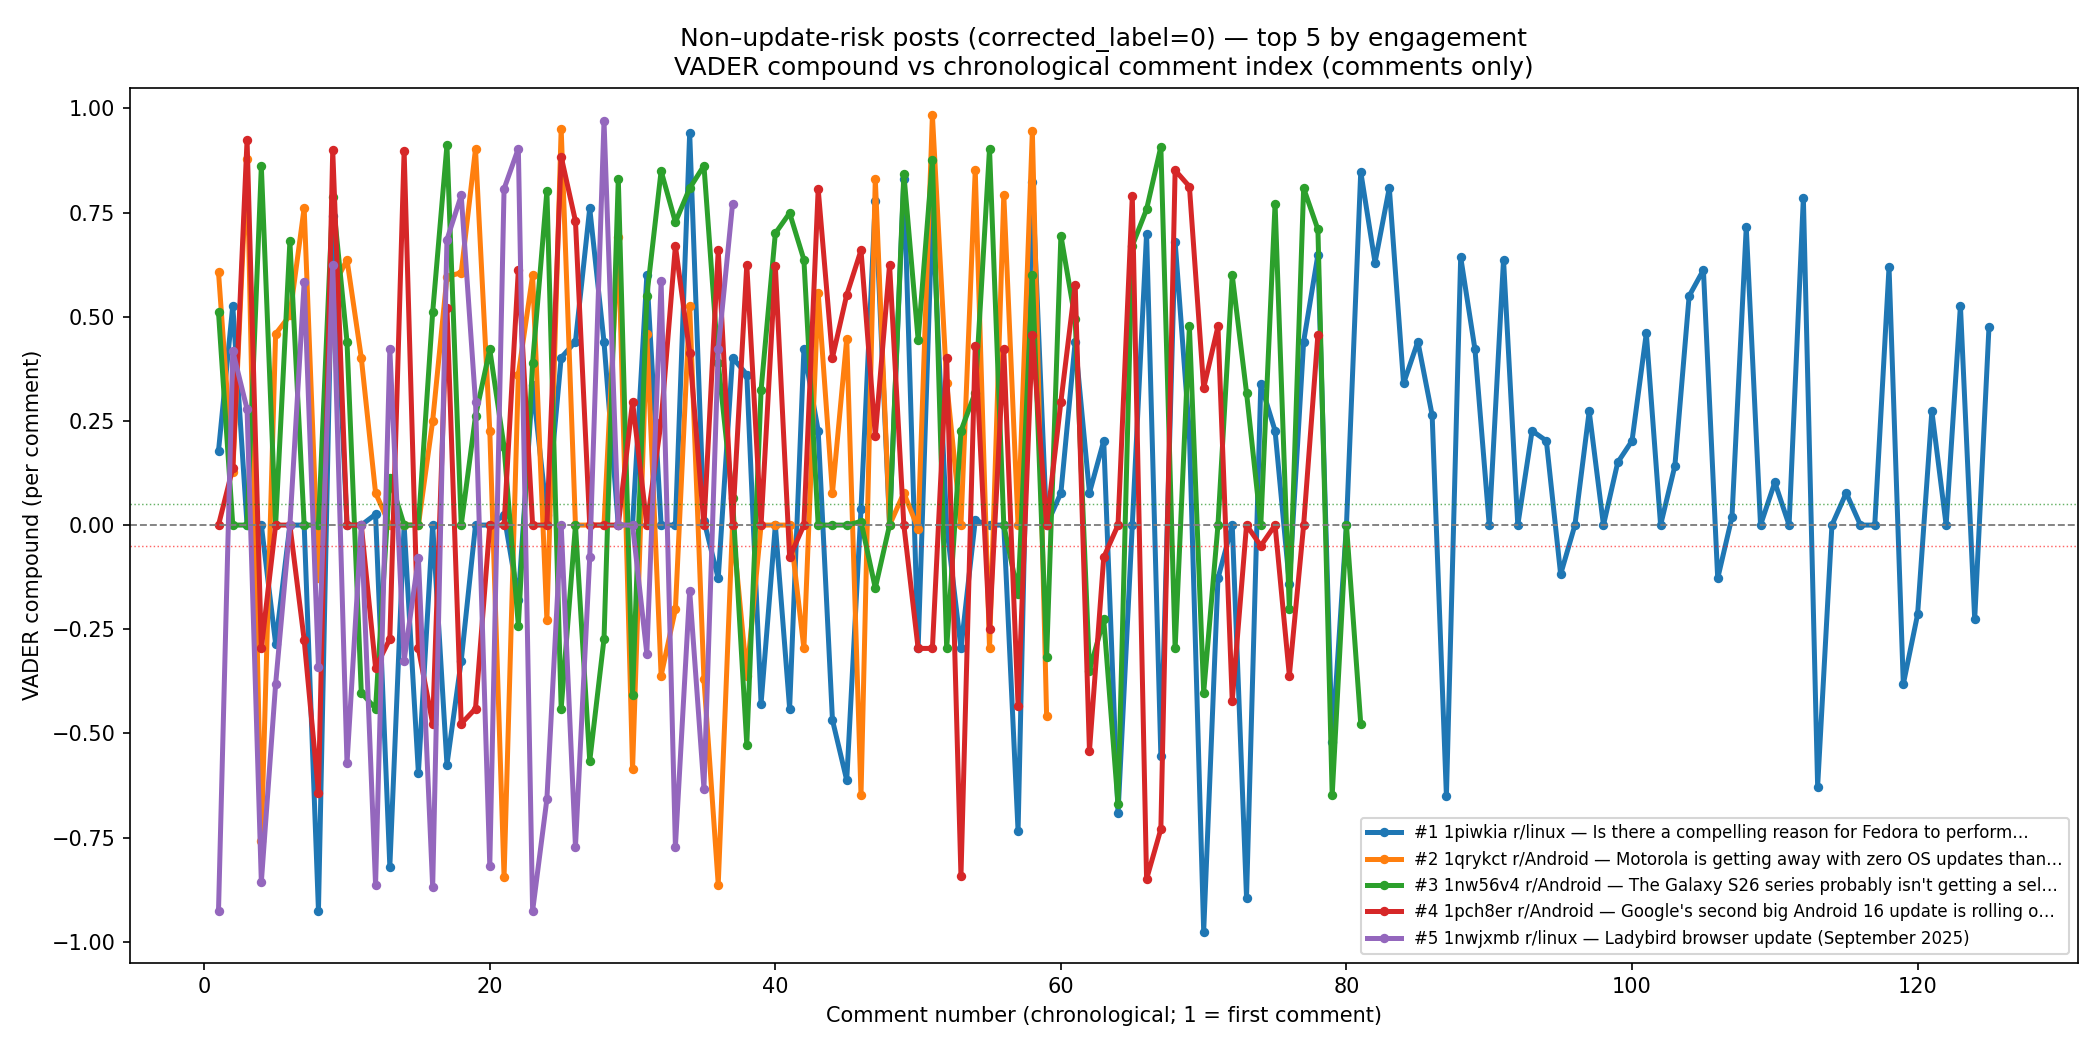
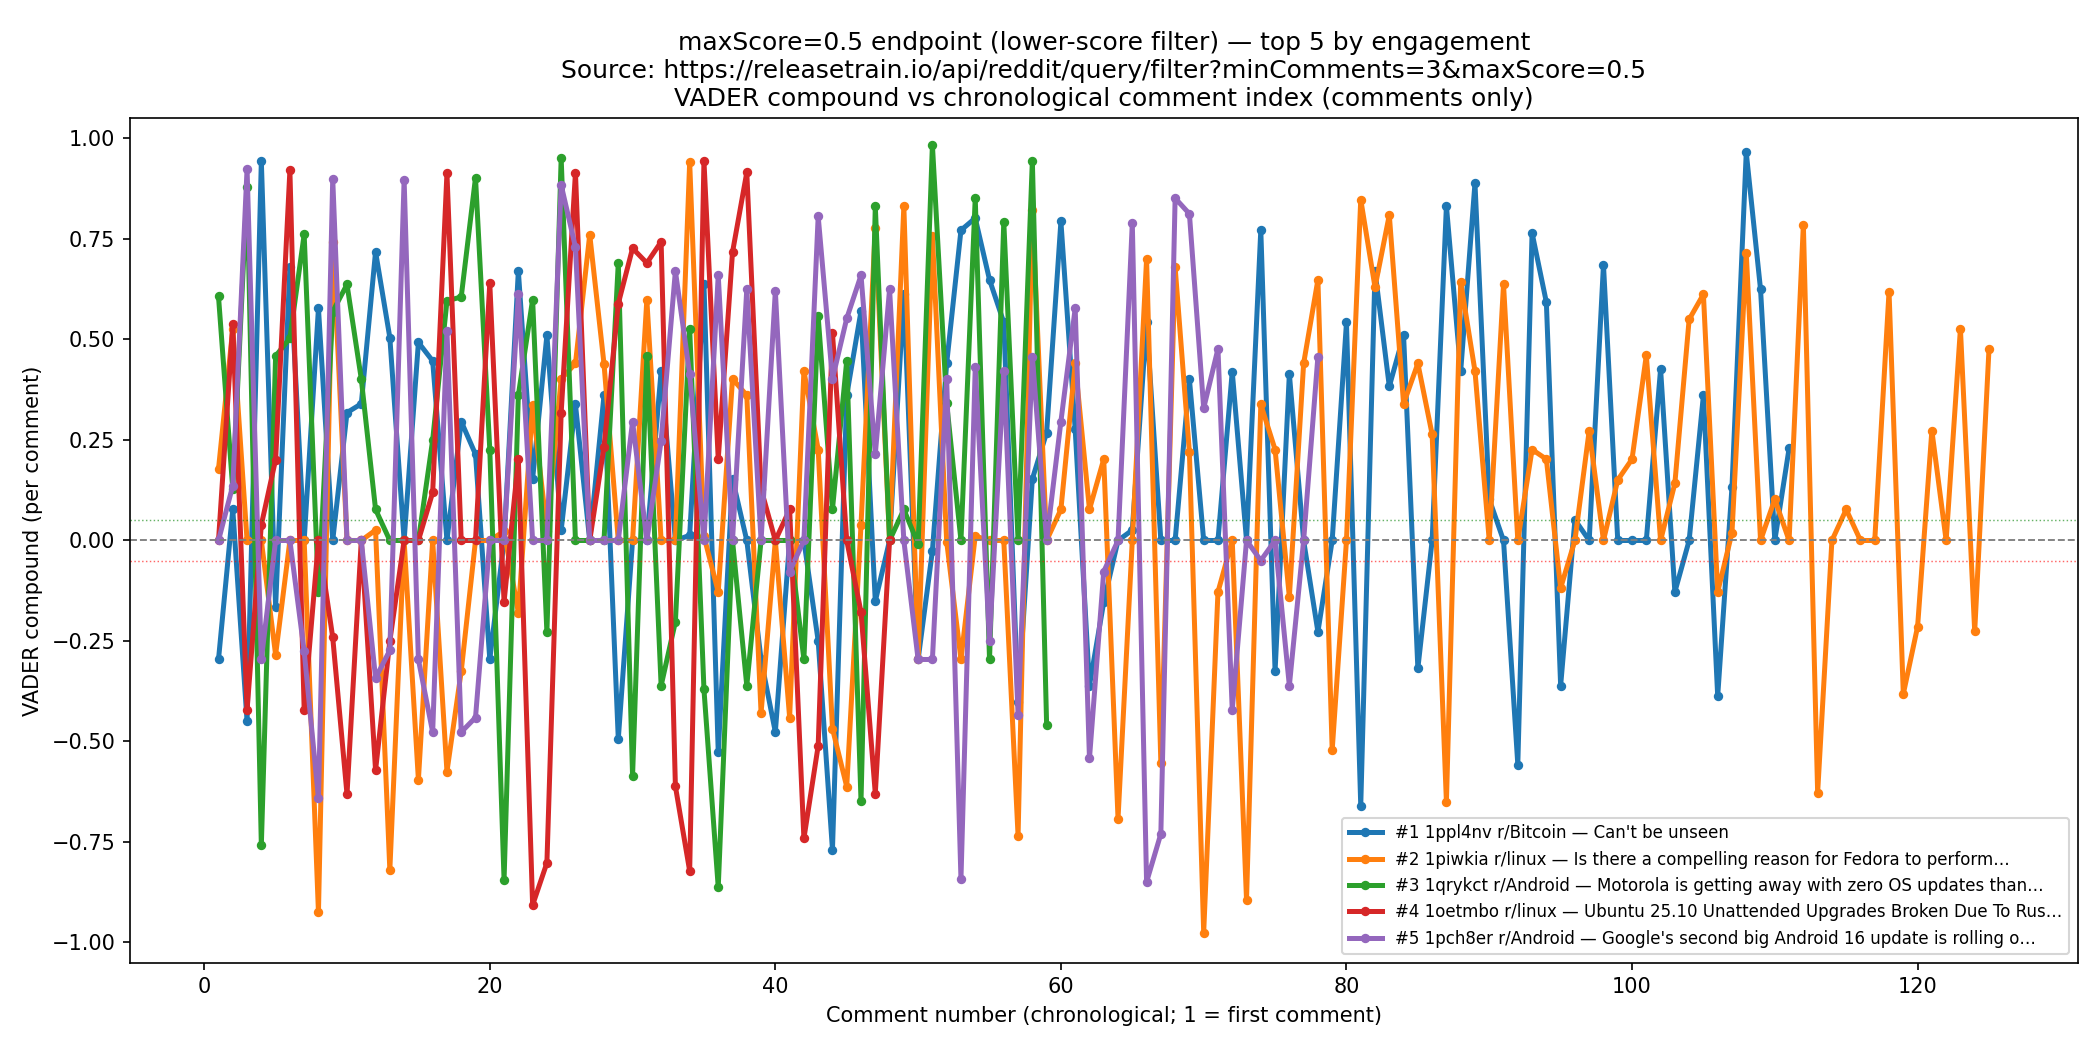
Sync web: professor panels from minScore vs maxScore API cohorts.
Updates index.html copy, selection JSON, and PNGs for ReleaseTrain filter
endpoints (minComments=3 with minScore=0.5 and maxScore=0.5).

Made-with: Cursor

diff --git a/research-open-text-sentimental/web/index.html b/research-open-text-sentimental/web/index.html
@@ -218,7 +218,7 @@
                     <option value="label">Label Distribution</option>
                     <option value="thread">Thread trajectory</option>
                     <option value="comment_index">Comment-index trajectory</option>
-                    <option value="risk_professor">Update vs non-update (professor)</option>
+                    <option value="risk_professor">minScore vs maxScore cohort (professor)</option>
                 </select>
             </div>
             <div class="field">
@@ -233,7 +233,7 @@
                     <option value="thread_plotly">Thread trajectories (interactive Plotly)</option>
                     <option value="comment_index_raw">Comment-index (raw 2-line)</option>
                     <option value="comment_index_cumulative">Comment-index (cumulative mean)</option>
-                    <option value="risk_professor">Risk split (5-line panels)</option>
+                    <option value="risk_professor">minScore vs maxScore (5-line panels)</option>
                 </select>
             </div>
         </section>
@@ -385,22 +385,22 @@
 
         visuals.push(
             {
-                title: "Professor view — update-risk posts (VADER per comment, max 5 lines)",
+                title: "Professor view — minScore=0.5 cohort (VADER per comment, max 5 lines)",
                 endpoint: "both",
                 kind: "risk_professor",
                 method: "risk_professor",
                 path: "images/vader_update_risk/update_risk_top5_by_comment_index.png",
                 plotlySlug: null,
-                explain: "X-axis: 1 = first comment in time, 2 = second, etc. Y-axis: VADER compound for that comment only (opening post body excluded). Lines: top 5 engagement among posts labeled update-risk (corrected_label=1) in updated_labeled_dataset.csv and present in the min/max endpoint pull. Reddit ids: web/data/vader_update_risk_comment_index_selection.json."
+                explain: "X-axis: 1 = first comment in time, 2 = second, etc. Y-axis: VADER compound for that comment only (opening post body excluded). Lines: top 5 by engagement among posts returned by the ReleaseTrain filter with minComments=3 and minScore=0.5 (higher-score / update-risk cohort). Reddit ids and URL: web/data/vader_update_risk_comment_index_selection.json."
             },
             {
-                title: "Professor view — non–update-risk posts (VADER per comment, max 5 lines)",
+                title: "Professor view — maxScore=0.5 cohort (VADER per comment, max 5 lines)",
                 endpoint: "both",
                 kind: "risk_professor",
                 method: "risk_professor",
                 path: "images/vader_update_risk/non_update_risk_top5_by_comment_index.png",
                 plotlySlug: null,
-                explain: "Same layout as the update-risk panel, but for corrected_label=0. Each line is one thread; color distinguishes posts."
+                explain: "Same layout as the minScore panel, but threads are drawn only from the ReleaseTrain filter with minComments=3 and maxScore=0.5 (lower-score / without-risks cohort). Each line is one thread; color distinguishes posts."
             }
         );
 
@@ -427,7 +427,7 @@
             if (m === "thread_plotly") return "Thread (interactive)";
             if (m === "comment_index_raw") return "Comment-index raw";
             if (m === "comment_index_cumulative") return "Comment-index cumulative";
-            if (m === "risk_professor") return "Risk split (professor)";
+            if (m === "risk_professor") return "minScore vs maxScore (professor)";
             return m;
         }
 
@@ -436,7 +436,7 @@
             if (kind === "label") return "Label Distribution";
             if (kind === "thread") return "Thread trajectory";
             if (kind === "comment_index") return "Comment-index trajectory";
-            if (kind === "risk_professor") return "Update vs non-update (professor)";
+            if (kind === "risk_professor") return "minScore vs maxScore cohort (professor)";
             return kind;
         }
 
